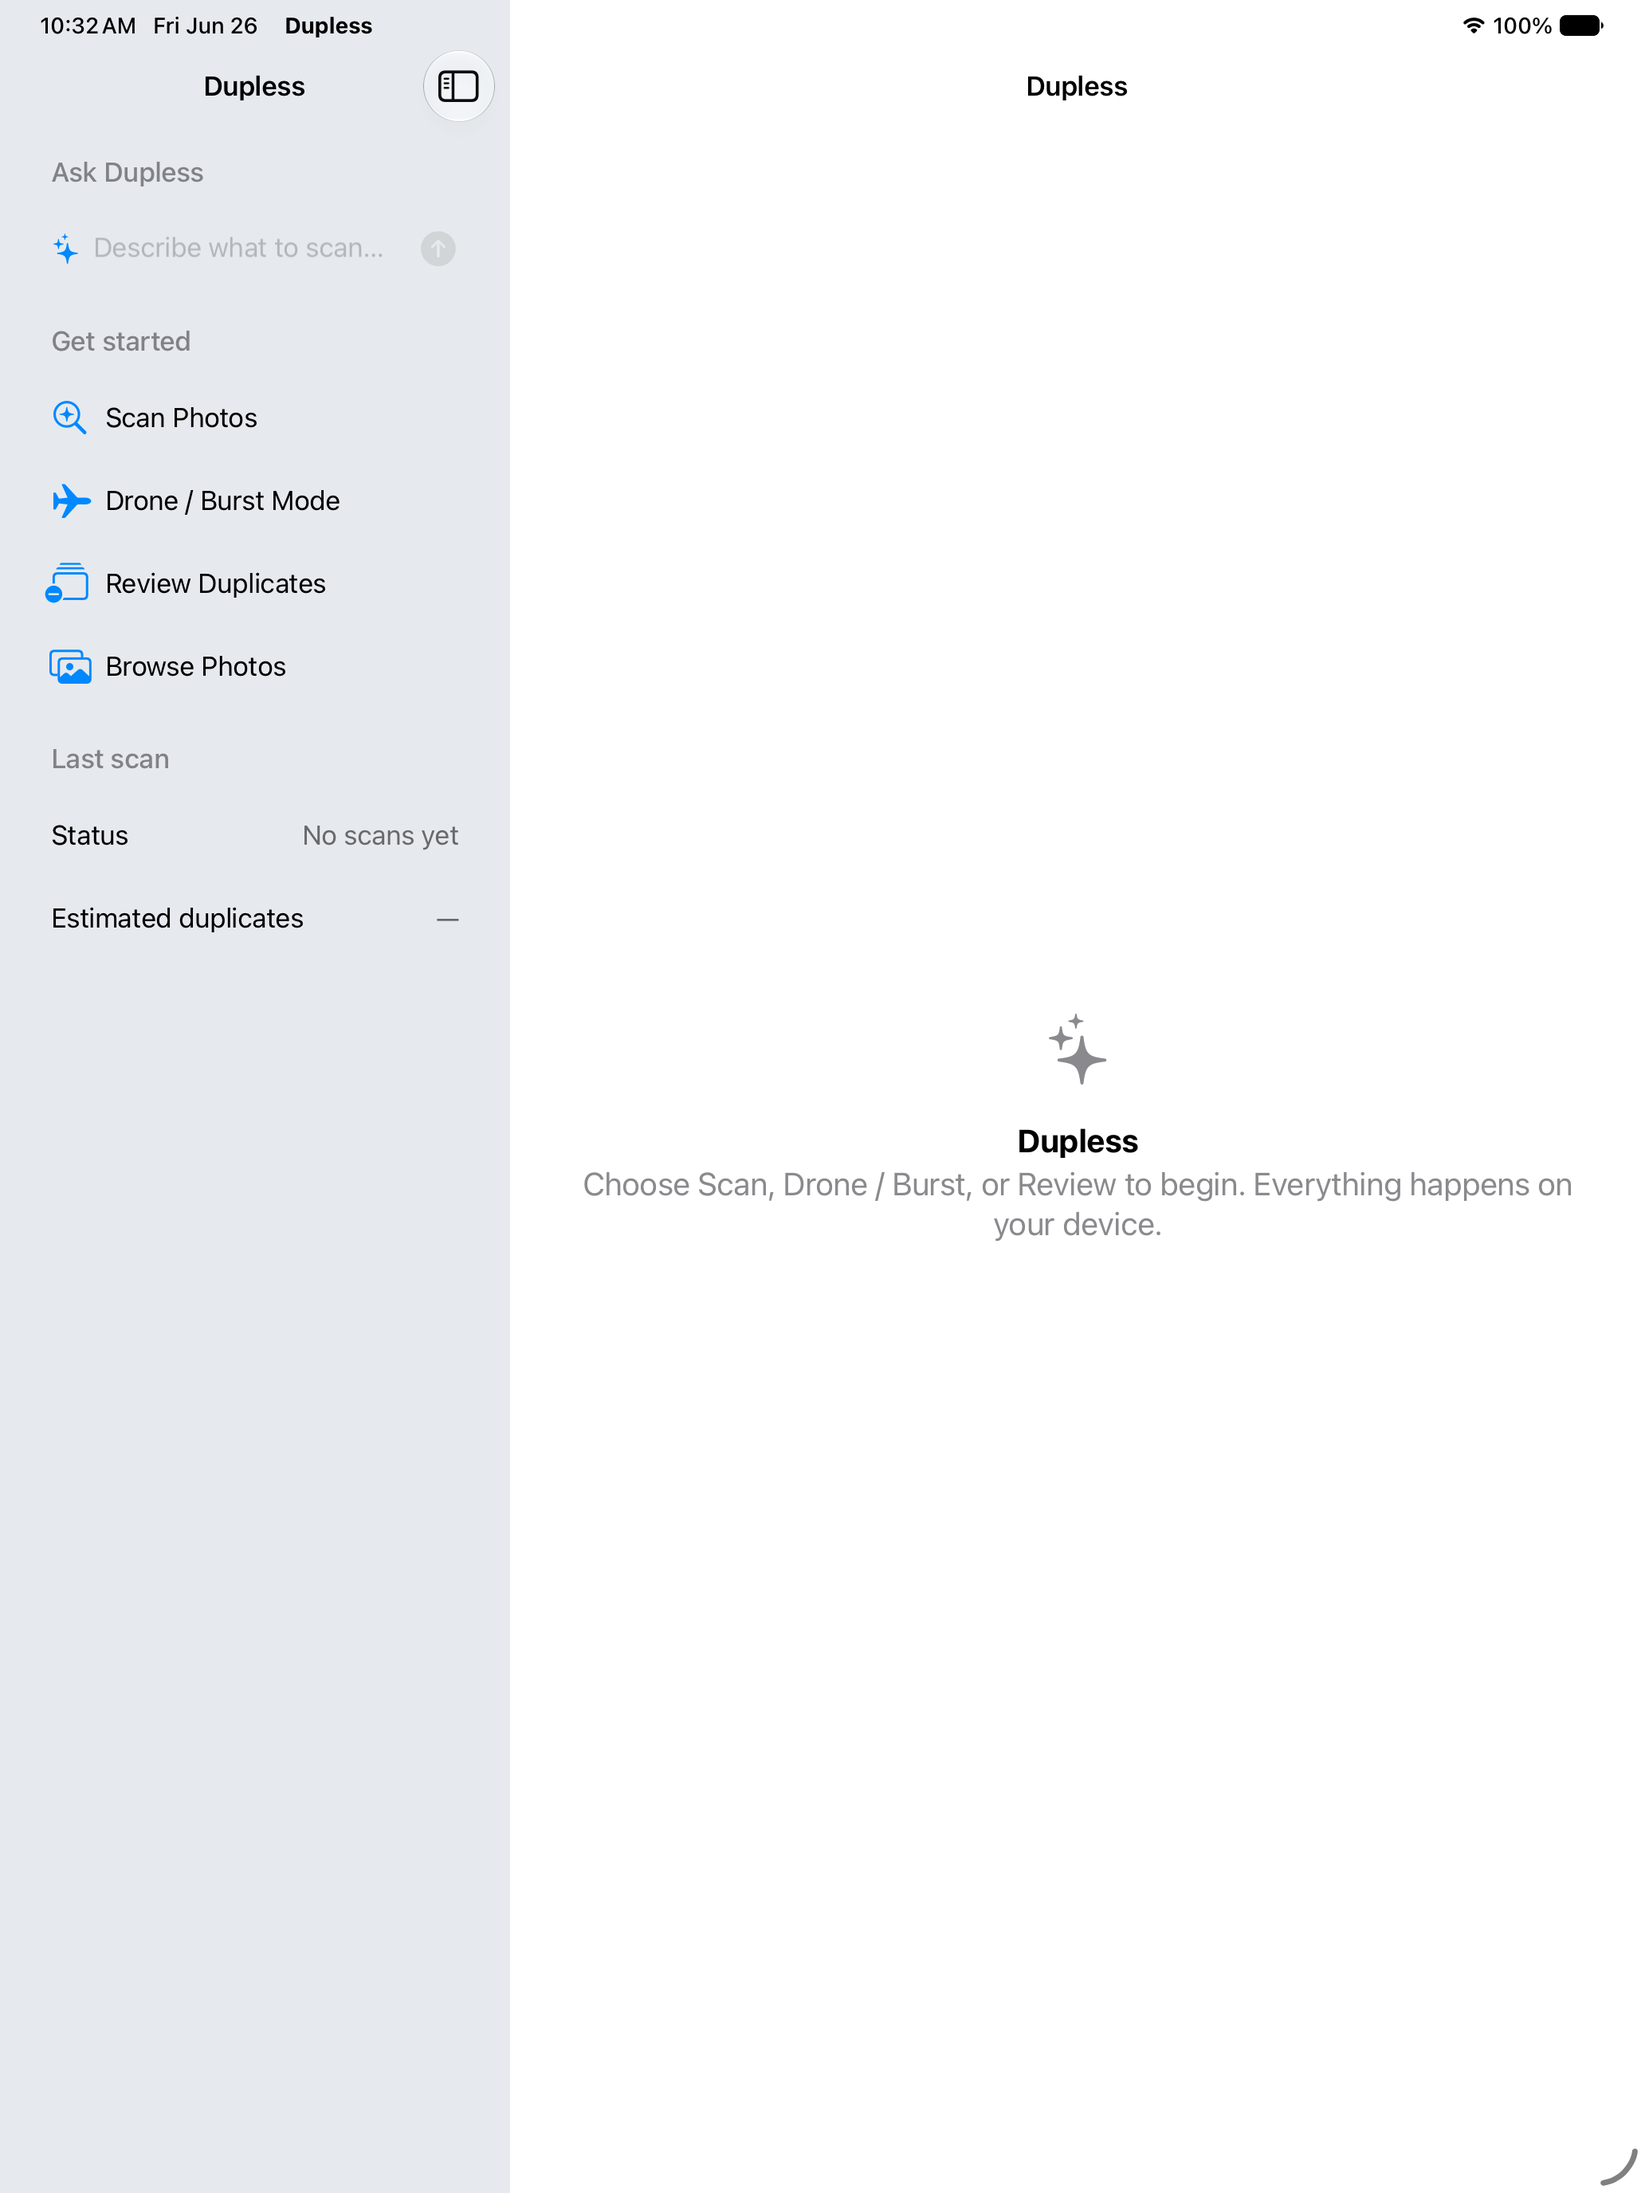
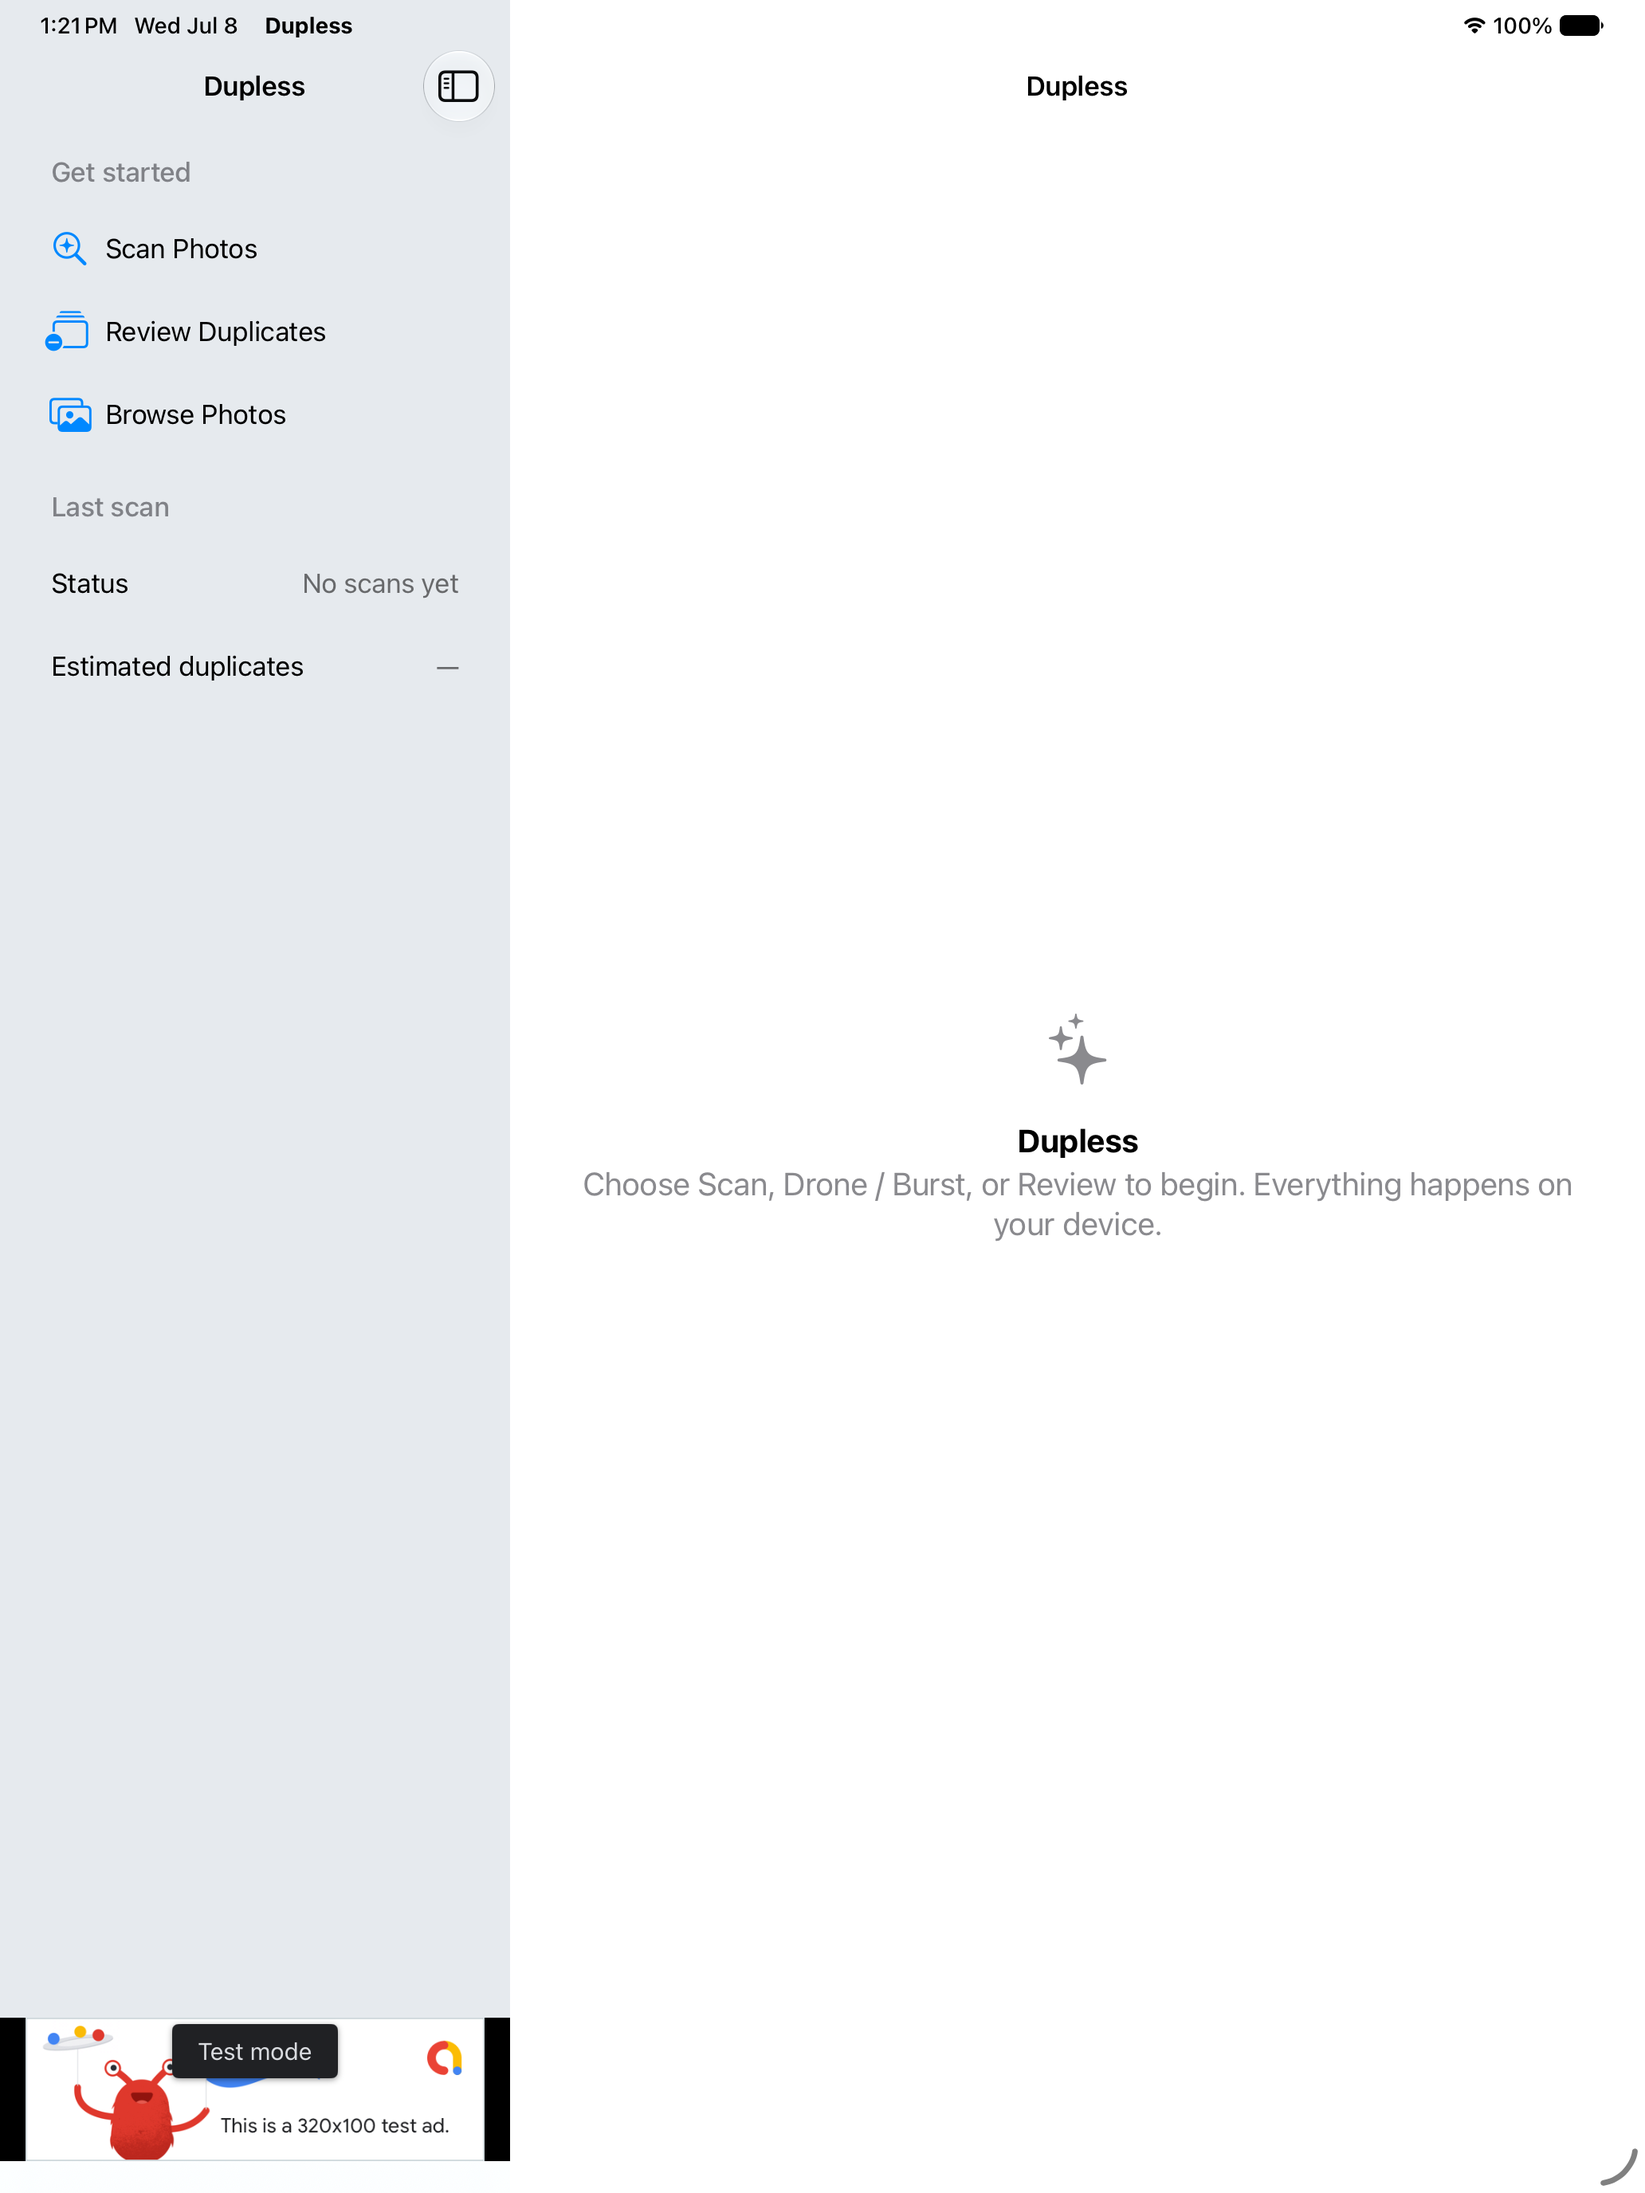
update photos and privacy

diff --git a/marketing/app-store-submission.md b/marketing/app-store-submission.md
@@ -72,8 +72,7 @@ Made for iPhone and iPad — reclaim space and tidy your library, on your terms.
 First release of Dupless:
 • On-device duplicate and similar-photo detection
 • Best-shot ranking with plain-language explanations
-• Natural-language scans with Apple Intelligence
-• Drone/Burst session cleanup that protects unique angles
+• Protect favorites, edited photos, and Live Photos (each toggleable)
 • Siri & Shortcuts support
 • Optional, off-by-default place-name scan matching
 ```
@@ -133,10 +132,6 @@ Dupless is a fully on-device photo-deduplication app. No account or login is req
 
 To test: grant Photos access when prompted. The app scans the library for duplicate and similar photos and presents them for review. Nothing is deleted without explicit user action; removals go to Recently Deleted.
 
-"Ask Dupless" interprets a typed request using on-device Apple Intelligence (Foundation Models); when unavailable it falls back to deterministic keyword parsing, so the feature works on all supported devices.
-
-Optional place-name scan scoping is OFF by default. When a user enables it for a scan, the app reverse-geocodes photo coordinates via MapKit (MKReverseGeocodingRequest) to match a named place. Only coordinates are sent to Apple's location service — never photos. This is the only off-device transmission and is disclosed in the privacy policy.
-
 Photo-library permission strings explain both read access (for scanning) and add access (for optionally saving best shots to a new album).
 ```
 
@@ -156,9 +151,8 @@ inside MapKit) and no custom/proprietary cryptography. You can declare it
 ## 7. Pre-submission checklist
 
 - [ ] **App icon** — 1024×1024 present in the asset catalog ✓ (confirm it has no alpha/transparency)
-- [ ] **iPhone 6.9" screenshots** — 7 captured in `marketing/screenshots/iphone-6.9/` ✓
-- [ ] **iPad 13" screenshots** — 3 captured in `marketing/screenshots/ipad-13/` ✓
-- [x] **Onboarding screenshot refreshed** — `iphone-6.9/1-onboarding.png` re-captured with the current "Find duplicates" title.
+- [x] **iPhone 6.9" screenshots** — 7 captured in `marketing/screenshots/iphone-6.9/` ✓ (re-captured 2026-07-08 against current build: dropped "Ask Dupless" bar and Drone/Burst — both hidden Pro features per `abbf76e` — picked up the AdMob banner and the new Protect Live Photos toggle, and replaced the Drone/Burst slot with Browse Photos)
+- [x] **iPad 13" screenshots** — 3 captured in `marketing/screenshots/ipad-13/` ✓ (re-captured 2026-07-08, same reasons)
 - [x] **Privacy Policy URL is live** — `https://veeravn.github.io/cleanshots-site/privacy-policy.html` (GitHub Pages, public `cleanshots-site` repo)
 - [x] **Support URL is live** — `https://veeravn.github.io/cleanshots-site/`
 - [ ] Listing copy, keywords, categories, age rating entered **(your action)**

diff --git a/marketing/README.md b/marketing/README.md
@@ -11,13 +11,13 @@ they can be uploaded to App Store Connect without resizing.
 
 | File | Screen |
 |------|--------|
-| `screenshots/iphone-6.9/1-onboarding.png`    | "Find duplicates" intro |
-| `screenshots/iphone-6.9/2-home.png`          | Home: Ask Dupless + actions |
-| `screenshots/iphone-6.9/3-scan-setup.png`    | Scan scope, options, sensitivity |
-| `screenshots/iphone-6.9/4-scan-pipeline.png` | Five-stage on-device scan |
-| `screenshots/iphone-6.9/5-duplicates.png`    | Duplicate groups with match % |
-| `screenshots/iphone-6.9/6-best-shot.png`     | Best-shot keeper + "Why this one?" |
-| `screenshots/iphone-6.9/7-drone-burst.png`   | Drone/Burst setup, protect unique angles |
+| `screenshots/iphone-6.9/1-onboarding.png`     | "Find duplicates" intro |
+| `screenshots/iphone-6.9/2-home.png`           | Home: Get started actions |
+| `screenshots/iphone-6.9/3-scan-setup.png`     | Scan scope, options (incl. Protect Live Photos), sensitivity |
+| `screenshots/iphone-6.9/4-scan-pipeline.png`  | Five-stage on-device scan |
+| `screenshots/iphone-6.9/5-duplicates.png`     | Duplicate groups with match % |
+| `screenshots/iphone-6.9/6-best-shot.png`      | Best-shot keeper + "Why this one?" |
+| `screenshots/iphone-6.9/7-browse-photos.png`  | Browse Photos grid |
 
 ### iPad — 13" (2064 × 2752), iPad Pro 13-inch (M5)
 
@@ -48,9 +48,23 @@ xcrun simctl io <UDID> screenshot marketing/screenshots/<name>.png
 own (gradients with a slightly shifted "subject" so the dedupe engine forms
 real similar-photo groups).
 
+> **Gotcha:** `simctl io screenshot` can fail with a TCC permission error if it
+> writes directly into this repo (under `~/Documents`). Capture to `/tmp` (or
+> anywhere outside `~/Documents`) and `cp` the file into place instead.
+>
+> **Gotcha:** `find ~/Library/Developer/Xcode/DerivedData -path
+> '*Debug-iphonesimulator/Dupless.app'` can match a stale build from an old
+> DerivedData folder if more than one exists. Pick the most recently modified
+> match (or clear out the others) before `simctl install`.
+
 ## App Store Connect notes
 
 - 6.9" and 13" are the only two screenshot sizes App Store Connect currently
   requires; smaller iPhones/iPads scale from the 6.9" set.
 - The privacy policy URL required at submission is hosted from
   [`docs/privacy-policy.html`](../docs/privacy-policy.html).
+- "Ask Dupless" (natural-language scan bar) and "Drone / Burst Mode" were
+  Pro-gated features removed from Home's entry points in `abbf76e` after App
+  Review rejected the IAP (2.1(b), 3.1.2(c)); the underlying code is still in
+  the repo but unreachable from the UI. Neither should appear in screenshots
+  or listing copy referencing 1.0 until/unless they're re-exposed.
